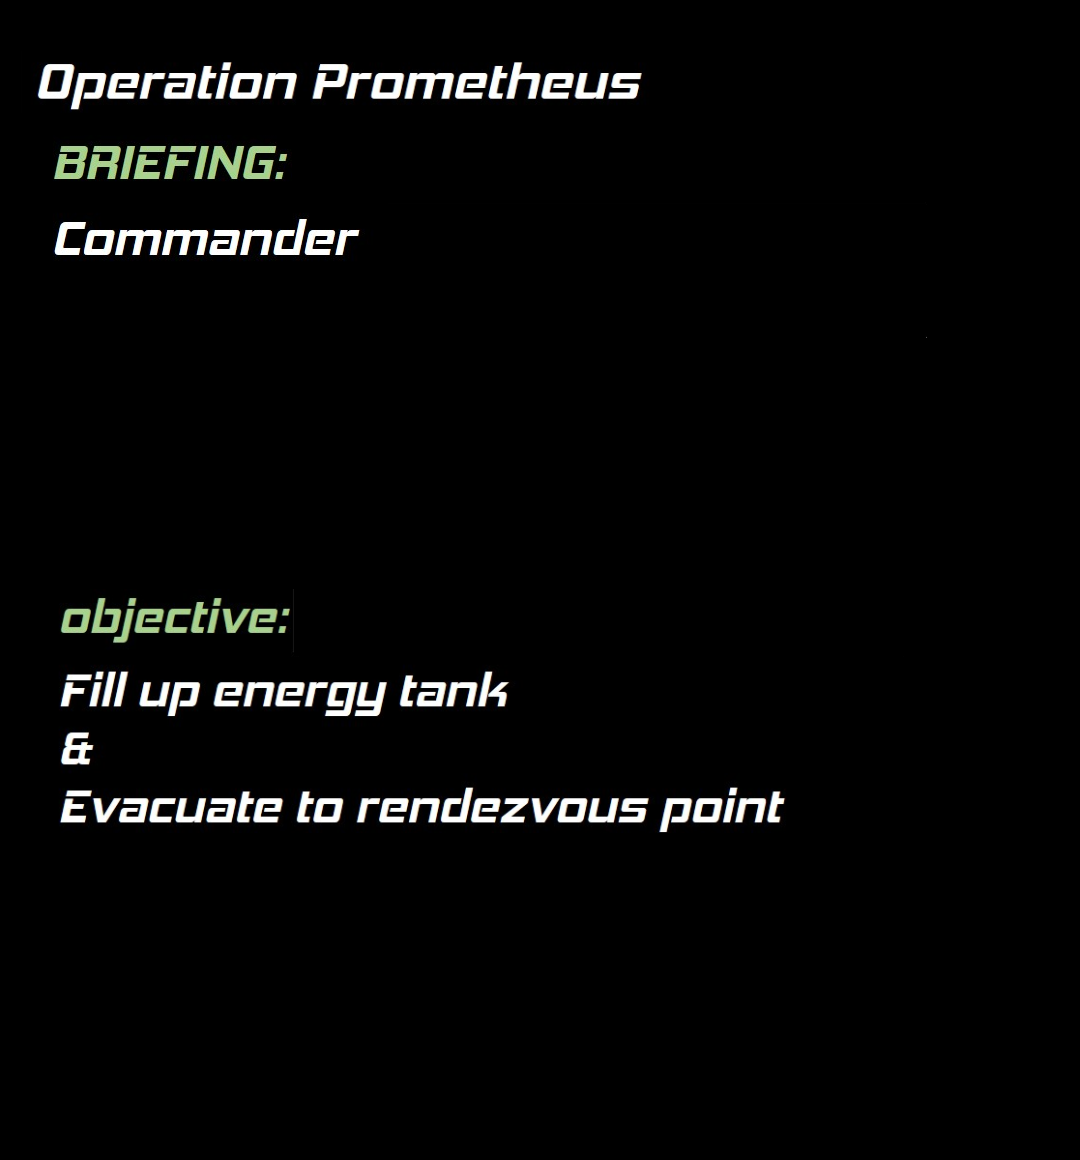
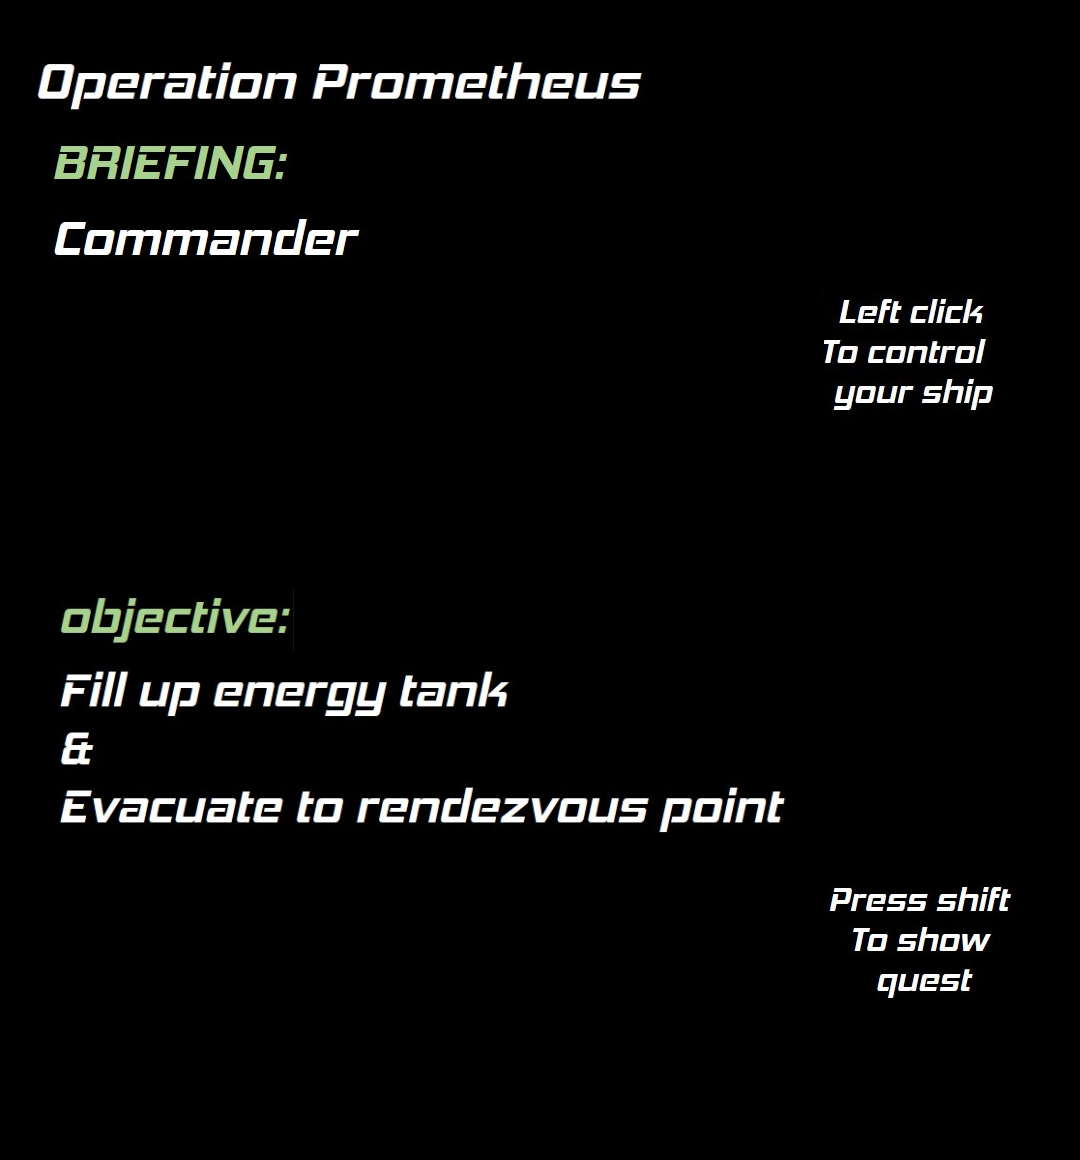
雜修

Changed region(s): [[0.7639, 0.7448, 0.9472, 0.869], [0.7639, 0.2483, 0.9167, 0.3724]]

diff --git a/src/Main.java b/src/Main.java
@@ -29,7 +29,7 @@ public class Main {
         //滑鼠鼠標的圖片
         Image image = ImageController.getInstance().tryGet("/MousePointV2.png");
         SceneController sceneController = SceneController.getInstance(); //取得單例模式的控場實體
-        sceneController.changeScene(new MissionScene()); //一開始使用開場畫面
+        sceneController.changeScene(new SimpleMissionScene()); //一開始使用開場畫面
         GameKernel gameKernel = new GameKernel.Builder().input(  //創建遊戲核心
                 new CommandSolver.BuildStream()
                         .mouseTrack().forceRelease().subscribe(sceneController).keyboardTrack()

diff --git a/src/scene/SimpleMissionScene.java b/src/scene/SimpleMissionScene.java
@@ -38,7 +38,7 @@ public class SimpleMissionScene extends Scene {
     public void sceneBegin() {
         isPress = false;
         demoVedio = new DemoVedio(400, 363);
-        back0 = ImageController.getInstance().tryGet("/mission.png");
+        back0 = ImageController.getInstance().tryGet("/111.png");
         AudioResourceController.getInstance().loop("/mission.wav",20);
         img = ImageController.getInstance().tryGet("/shift.png");
         img2 = ImageController.getInstance().tryGet("/Shift2.png");

diff --git a/src/scene/GameScene.java b/src/scene/GameScene.java
@@ -225,7 +225,7 @@ public class GameScene extends Scene {
 
     @Override
     public CommandSolver.MouseListener mouseListener() {
-        return (e, state, trigTime) -> {
+        return (e,state, trigTime) -> {
             if (state != null) {
                 XX = e.getX();
                 YY = e.getY();
